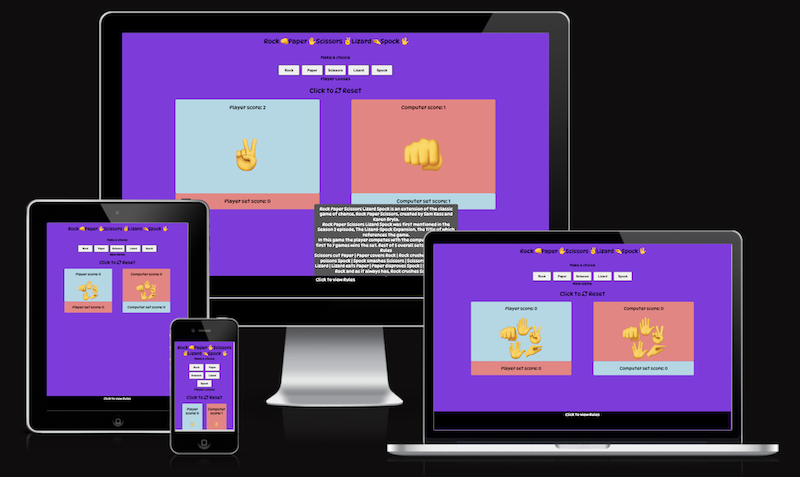
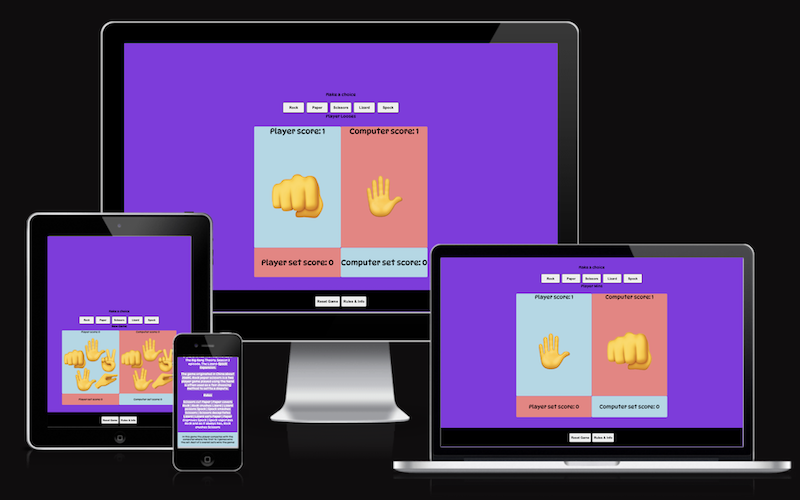
update readme

diff --git a/README.md b/README.md
@@ -75,11 +75,6 @@ Responsive on all device sizes.
 
 ## Structure
 
-### Header
-
-The header consists of the five elements of the game in text, followed by the emoji for that element. It introduces the player to the game via simple element / image association.
-
-![heading](./assets/images/readme_images/header-section.png)
 
 ### Player Selection 
 
@@ -87,11 +82,10 @@ Five buttons with text description for player to make their chioce for next itte
 
 ![player selection area](./assets/images/readme_images/player-selection.png)
 
-### Message and Reset Game
+### Message
 
-Message area displays information to the user such as 'New Game', 'Player Wins', Player Looses', It's a Tie'. Below this the player is given the option to 'Reset' the game.
+Message area displays information to the user such as 'New Game', 'Player Wins', Player Looses', It's a Tie'. 
 
-![message and reset game area](./assets/images/readme_images/message-reset.png)
 
 ### Player and Computer Image Selection and Score
 
@@ -100,12 +94,15 @@ The two display areas display player and computer choice and score. After game s
 
 ![Player and Computer Image Selection and Score](./assets/images/readme_images/player-computer-selection-score.png)
 
-### Footer (Rules)
+### Footer 
 
-The rules of the game need to be available to player but take up a lot of screen space on smaller devices. To view  rules, click on footer and rules will appear in a popup which can be collapsed again by clicking on popup. As well as the individual rules that decide a player/computer itteration the popup gives a brief description on where the game originated and how first to seven games wins the set and the first to win five sets wins the match.
-On loading the game for the first time or on reset the rules popup starts up 2 seconds when page is fully loaded. This function is initiated to alert player to rules of the game. The rules can be collapsed by clicking on footer or popup.
+The Reset Game button in the footer is used to reset the game at any stage during play. When game completed (when player wins or loses game) the Reset Game must be pressed to initiate a new game. 
 
-![rules](./assets/images/readme_images/rules-popup.png)
+The rules of the game need to be available to player but take up a lot of screen space on smaller devices. To view rules, click on  'Rules & Info' button in footer and rules will appear in a popup which can be collapsed again by clicking x. As well as the individual rules that decide a player/computer itteration the popup gives a brief description on where the game originated and how first to seven games wins the set and the first to win five sets wins the match.
+On loading the game for the first time or on reset the rules popup starts up 2 seconds when page is fully loaded. This function is initiated to alert player to rules of the game. The rules can be collapsed by clicking on x in modal.
+
+
+![rules](./assets/images/readme_images/footer.png)
 
 
 ## Technologies Used
